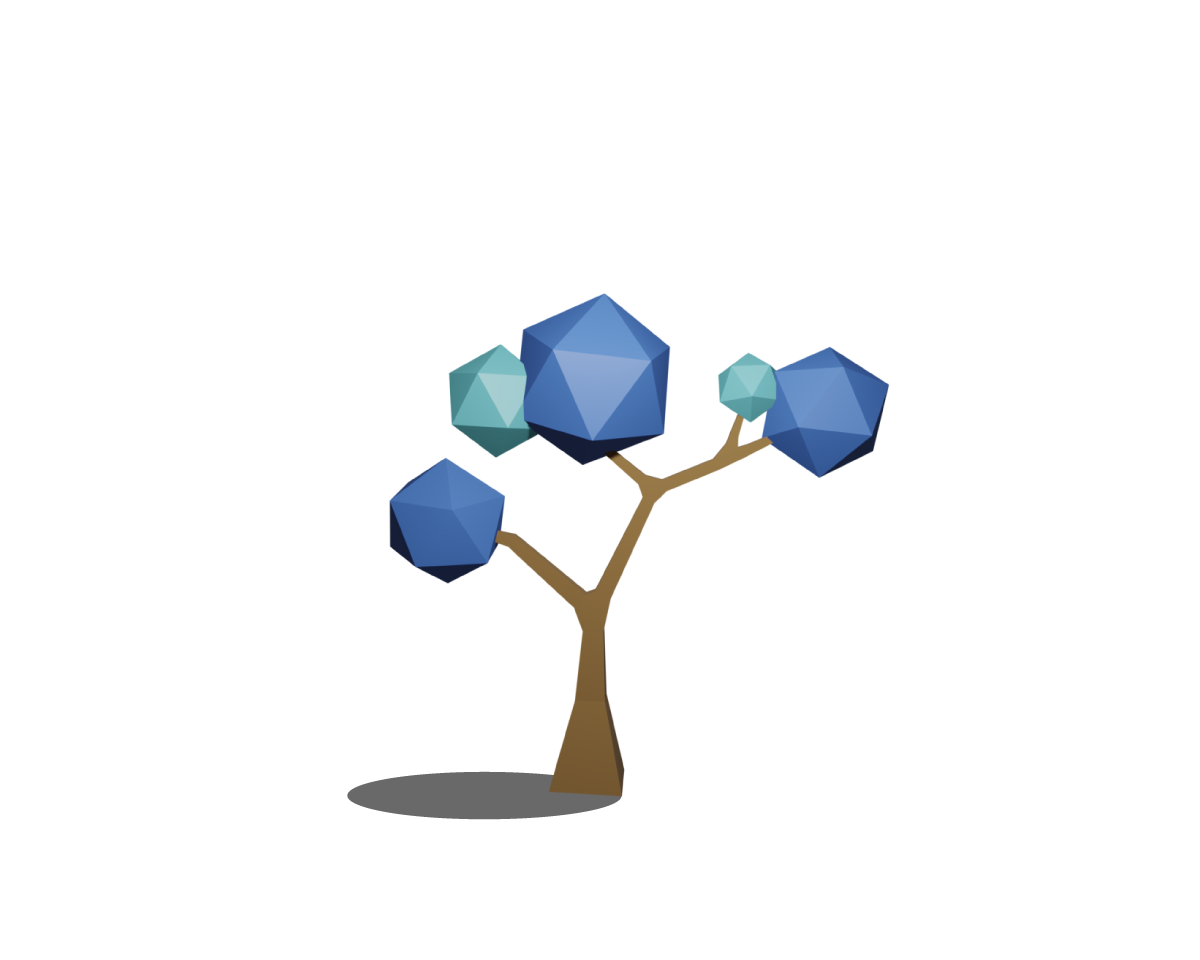
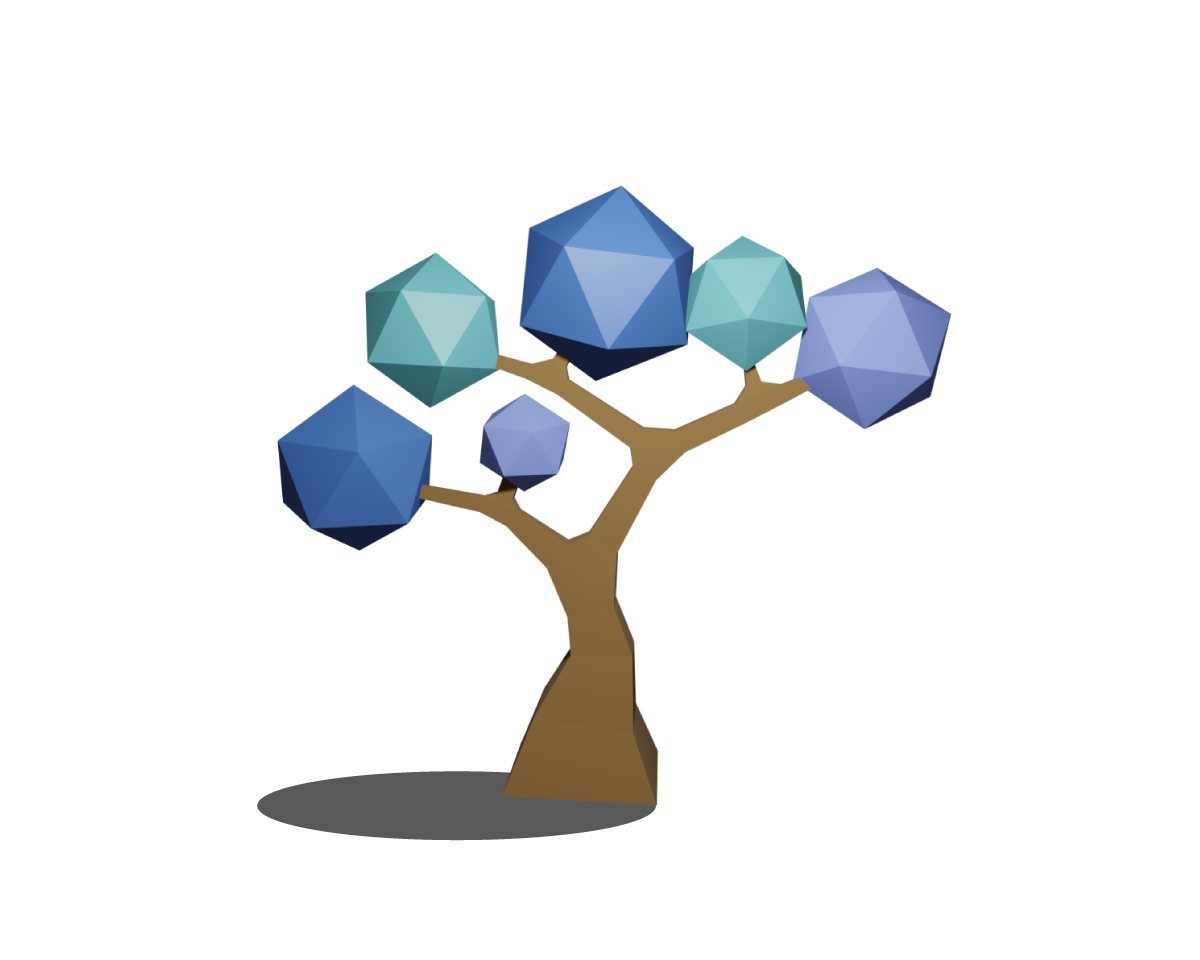
Feat: sliding panel milestone 추가

Changed region(s): [[0.2158, 0.1875, 0.8017, 0.875]]

diff --git a/lib/pages/setting/tree_setting.dart b/lib/pages/setting/tree_setting.dart
@@ -3,6 +3,7 @@ import 'package:twentyone_days/config/theme/color.dart';
 import 'package:twentyone_days/config/theme/tree.dart';
 import 'package:twentyone_days/config/theme/text/body_text.dart';
 import 'package:get/get.dart';
+import 'package:twentyone_days/core/params/user.dart';
 
 class TreeSetting extends StatefulWidget {
   const TreeSetting({Key? key}) : super(key: key);
@@ -12,6 +13,8 @@ class TreeSetting extends StatefulWidget {
 }
 
 class _TreeSettingState extends State<TreeSetting> {
+  var mineTree = myTree;
+
   @override
   Widget build(BuildContext context) {
     BorderRadiusGeometry radius = BorderRadius.only(
@@ -28,7 +31,7 @@ class _TreeSettingState extends State<TreeSetting> {
             child: Column(
               mainAxisAlignment: MainAxisAlignment.end,
               children: [
-                Image.asset(myTree, height: 300,),
+                Image.asset(mineTree, height: 300,),
                 SizedBox(height: 40,),
                 Container(
                   height: 320,
@@ -49,7 +52,7 @@ class _TreeSettingState extends State<TreeSetting> {
                           GestureDetector(
                             child: Image.asset(tree_green_1, width: 50,),
                             onTap: () {
-                              myTree = tree_green_1;
+                              mineTree = tree_green_1;
                               treeColor = 1;
                               setState(() {});
                             },
@@ -57,7 +60,7 @@ class _TreeSettingState extends State<TreeSetting> {
                           GestureDetector(
                             child: Image.asset(tree_pink_1, width: 50,),
                             onTap: () {
-                              myTree = tree_pink_1;
+                              mineTree = tree_pink_1;
                               treeColor = 2;
                               setState(() {});
                             },
@@ -65,7 +68,7 @@ class _TreeSettingState extends State<TreeSetting> {
                           GestureDetector(
                             child: Image.asset(tree_blue_1, width: 50,),
                             onTap: () {
-                              myTree = tree_blue_1;
+                              mineTree = tree_blue_1;
                               treeColor = 3;
                               setState(() {});
                             },
@@ -73,7 +76,7 @@ class _TreeSettingState extends State<TreeSetting> {
                           GestureDetector(
                             child: Image.asset(tree_yel_1, width: 50,),
                             onTap: () {
-                              myTree = tree_yel_1;
+                              mineTree = tree_yel_1;
                               treeColor = 4;
                               setState(() {});
                             },
@@ -99,6 +102,20 @@ class _TreeSettingState extends State<TreeSetting> {
                           ),
                         ),
                         onTap: () {
+                          setState(() {
+                            late String temp;
+                            if (treeColor == 1) {
+                              temp = 'green';
+                            } else if (treeColor == 2) {
+                              temp = 'pink';
+                            } else if (treeColor == 3) {
+                              temp = 'blue';
+                            } else {
+                              temp = 'yel';
+                            }
+                            String treeName = 'assets/images/tree_${temp}_${userLevel}.png';
+                            myTree = treeName;
+                          });
                           Get.toNamed('/main');
                         },
                       )

diff --git a/lib/pages/home/mission_record.dart b/lib/pages/home/mission_record.dart
@@ -1,13 +1,12 @@
 import 'package:flutter/material.dart';
 import 'package:twentyone_days/config/theme/text/body_text.dart';
 import '../../config/theme/text/title_text.dart';
-import 'package:dotted_line/dotted_line.dart';
+import '../../config/theme/tree.dart';
 
 class MissionRecord extends StatefulWidget {
-  const MissionRecord({Key? key, required this.date, required this.step, this.imagePath = 'assets/images/tree_imsi.png'}) : super(key: key);
+  const MissionRecord({Key? key, required this.date, required this.step}) : super(key: key);
   final String date;
   final String step;
-  final String imagePath;
 
   @override
   State<MissionRecord> createState() => _MissionRecordState();
@@ -16,17 +15,24 @@ class MissionRecord extends StatefulWidget {
 class _MissionRecordState extends State<MissionRecord> {
   @override
   Widget build(BuildContext context) {
+    late String temp;
+    if (treeColor == 1) {
+      temp = 'green';
+    } else if (treeColor == 2) {
+      temp = 'pink';
+    } else if (treeColor == 3) {
+      temp = 'blue';
+    } else {
+      temp = 'yel';
+    }
+    String treeName = 'assets/images/tree_${temp}_${widget.step}.png';
+
     return Column(
       crossAxisAlignment: CrossAxisAlignment.start,
       children: [
         TitleText(text: widget.date, size: 18, textAlign: TextAlign.start,),
-        SizedBox(height: 10,),
-        Row(
-          children: [
-            SizedBox(width: 10,),
-            Image.asset('assets/images/tree_imsi.png', height: 120,),
-          ],
-        ),
+        SizedBox(height: 5,),
+        Image.asset(treeName, height: 160,),
         SizedBox(height: 10,),
         BodyText(text: 'You took ${widget.step} steps towards greener\nworld!', color: Color(0xffBDBDBD), size: 18, weight: FontWeight.w400,),
         SizedBox(height: 10,)

diff --git a/lib/config/theme/tree.dart b/lib/config/theme/tree.dart
@@ -1,26 +1,26 @@
+final String tree_green_0 = 'assets/images/tree_green_0.png';
 final String tree_green_1 = 'assets/images/tree_green_1.png';
 final String tree_green_2 = 'assets/images/tree_green_2.png';
 final String tree_green_3 = 'assets/images/tree_green_3.png';
 final String tree_green_4 = 'assets/images/tree_green_4.png';
-final String tree_green_5 = 'assets/images/tree_green_5.png';
 
+final String tree_blue_0 = 'assets/images/tree_blue_0.png';
 final String tree_blue_1 = 'assets/images/tree_blue_1.png';
 final String tree_blue_2 = 'assets/images/tree_blue_2.png';
 final String tree_blue_3 = 'assets/images/tree_blue_3.png';
 final String tree_blue_4 = 'assets/images/tree_blue_4.png';
-final String tree_blue_5 = 'assets/images/tree_blue_5.png';
 
+final String tree_yel_0 = 'assets/images/tree_yel_0.png';
 final String tree_yel_1 = 'assets/images/tree_yel_1.png';
 final String tree_yel_2 = 'assets/images/tree_yel_2.png';
 final String tree_yel_3 = 'assets/images/tree_yel_3.png';
 final String tree_yel_4 = 'assets/images/tree_yel_4.png';
-final String tree_yel_5 = 'assets/images/tree_yel_5.png';
 
+final String tree_pink_0 = 'assets/images/tree_pink_0.png';
 final String tree_pink_1 = 'assets/images/tree_pink_1.png';
 final String tree_pink_2 = 'assets/images/tree_pink_2.png';
 final String tree_pink_3 = 'assets/images/tree_pink_3.png';
 final String tree_pink_4 = 'assets/images/tree_pink_4.png';
-final String tree_pink_5 = 'assets/images/tree_pink_5.png';
 
 
 String myTree = tree_green_1;

diff --git a/lib/pages/home/panel_widget.dart b/lib/pages/home/panel_widget.dart
@@ -14,6 +14,7 @@ class PanelWidget extends StatefulWidget {
 }
 
 class _PanelWidgetState extends State<PanelWidget> {
+
   @override
   Widget build(BuildContext context) {
     var width = MediaQuery.of(context).size.width;
@@ -73,13 +74,13 @@ class _PanelWidgetState extends State<PanelWidget> {
                 child: Column(
                   crossAxisAlignment: CrossAxisAlignment.start,
                   children: [
-                    MissionRecord(date: '22 March', step: '4',),
-                    SizedBox(height: 8,),
-                    MissionRecord(date: '18 March', step: '3',),
-                    SizedBox(height: 8,),
-                    MissionRecord(date: '13 March', step: '2',),
-                    SizedBox(height: 8,),
-                    MissionRecord(date: '6 March', step: '1',),
+                    for (var data in milestone.keys)
+                      Column(
+                        children: [
+                          MissionRecord(date: milestone[data].substring(0,10), step: data),
+                          SizedBox(height: 8,),
+                        ],
+                      )
                   ],
                 ),
               ),

diff --git a/lib/pages/home/main_page.dart b/lib/pages/home/main_page.dart
@@ -1,5 +1,5 @@
 import 'dart:convert';
-
+import 'dart:developer';
 import 'package:flutter/material.dart';
 import 'package:get/get.dart';
 import 'package:location/location.dart';
@@ -25,7 +25,6 @@ class _MainPageState extends State<MainPage> {
   Future<bool> permission() async {
     Map<per.Permission, per.PermissionStatus> status =
         await [per.Permission.location].request(); // [] 권한배열에 권한을 작성
-
     if (await per.Permission.location.isGranted) {
       return Future.value(true);
     } else {
@@ -55,6 +54,27 @@ class _MainPageState extends State<MainPage> {
     );
     var res = await http.get(markerUrl);
     totalMarker = jsonDecode(res.body);
+  }
+
+  Future stepSetting() async {
+    final url = Uri.parse(
+      'http://34.64.137.128:8080/user/${userId}/',
+    );
+    var resp = await http.get(url);
+    var total = jsonDecode(resp.body);
+    var milestone = total['Milestone'];
+    return milestone;
+  }
+
+  @override
+  void initState() {
+    // TODO: implement initState
+    stepSetting().then((value) {
+      setState(() {
+        milestone = value;
+      });
+    });
+    super.initState();
   }
 
   @override

diff --git a/lib/pages/login_page/profile_setting_page.dart b/lib/pages/login_page/profile_setting_page.dart
@@ -1,3 +1,5 @@
+import 'dart:developer';
+
 import 'package:flutter/material.dart';
 import 'package:twentyone_days/config/theme/color.dart';
 import 'package:twentyone_days/config/theme/text/body_text.dart';
@@ -199,10 +201,11 @@ class ProfileSettingPageState extends State<ProfileSettingPage> {
     var userData = jsonDecode(response.body);
     userId = userData['ID'];
     userLevel = userData['Step'];
+    milestone = userData['Milestone'];
 
-    print('Response status: ${response.statusCode}');
-    print('Response body: ${response.body}');
-    print('Response headers: ${response.headers}');
+    log('Response status: ${response.statusCode}');
+    log('Response body: ${response.body}');
+    log('Response headers: ${response.headers}');
 
     // final res2 = await http.get(
     //   Uri.parse(

diff --git a/lib/core/params/user.dart b/lib/core/params/user.dart
@@ -4,3 +4,4 @@ String userCountry = 'unknown';
 String userEmail = '';
 late int userLevel;
 Map<String, dynamic> userMissionProgress = {};
+late Map milestone;

diff --git a/lib/pages/map/map_page.dart b/lib/pages/map/map_page.dart
@@ -95,7 +95,6 @@ class _MapPageState extends State<MapPage> {
       });
     });
 
-
     return SafeArea(
         child: Scaffold(
       body: Stack(
